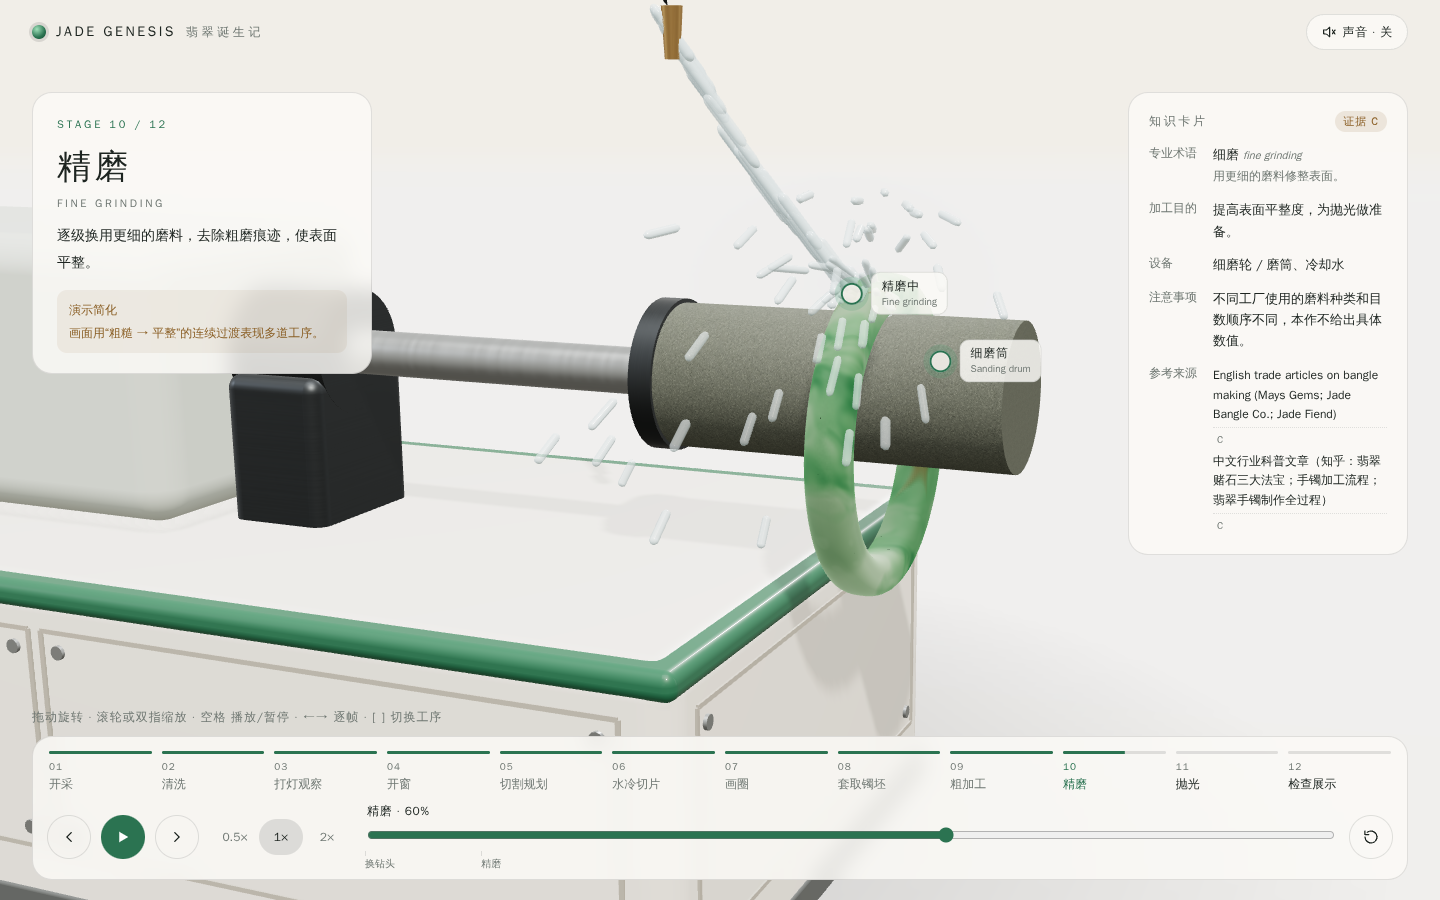
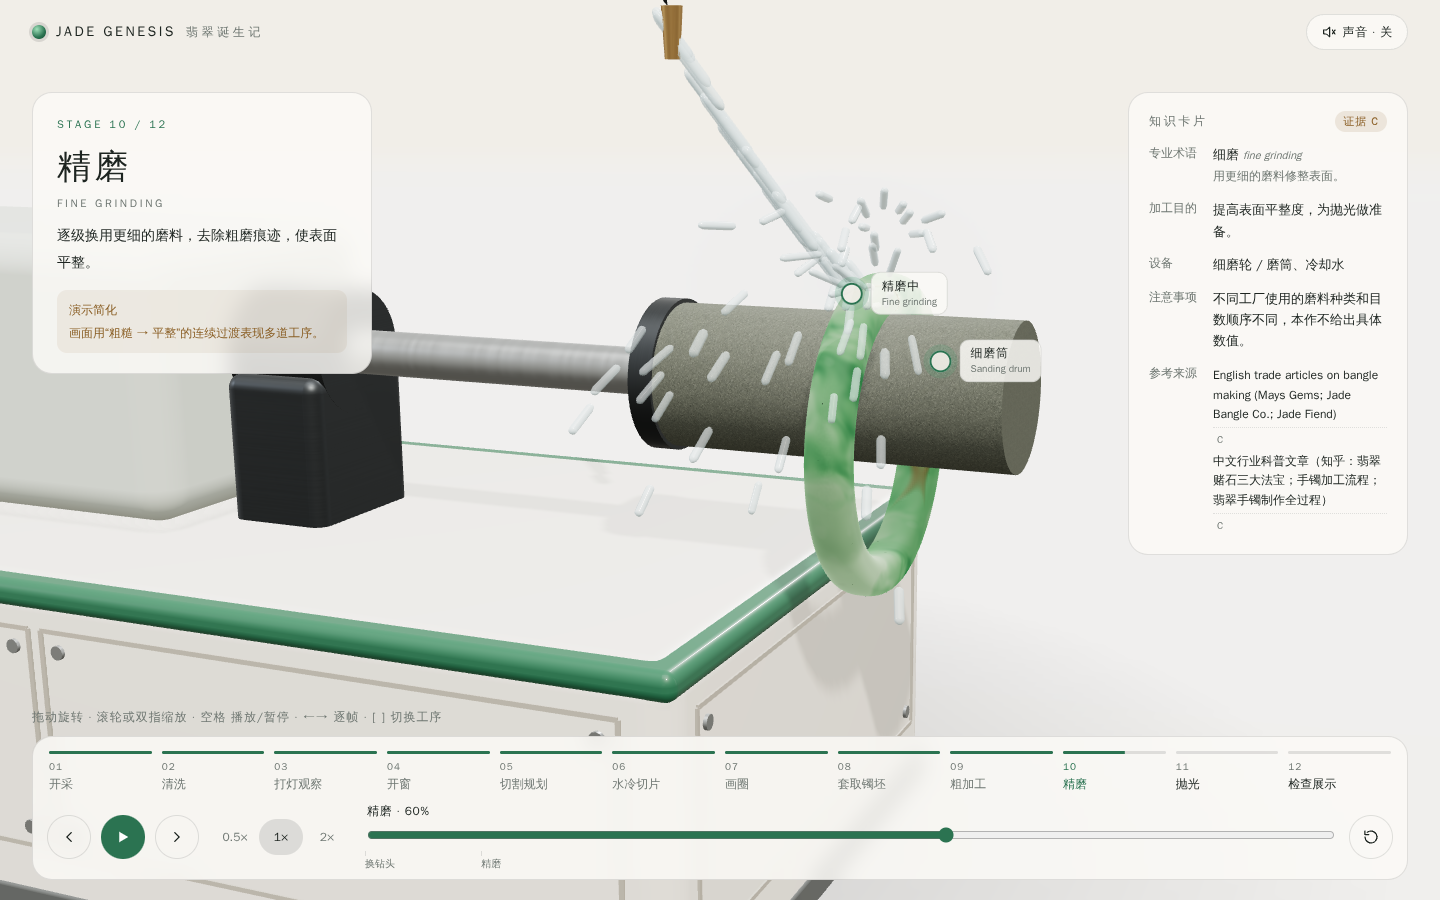
Phase 7: final regression results (desktop 22/22, mobile 20 + 2 skipped)
Claude-Session: https://claude.ai/code/session_01G3ejMZ9FuPFtVwuLJwLrtC

diff --git a/jade-genesis/docs/QA_REPORT.md b/jade-genesis/docs/QA_REPORT.md
@@ -1,3 +1,49 @@
+# QA 报告 — v1.1（Phase 7 工业级视觉升级）
+
+## 最终回归结果（提交 41d0152，`tests/journey.spec.ts`，22 个测试）
+
+| 视口 | 通过 | 跳过 | 失败 | 耗时 |
+|---|---|---|---|---|
+| 桌面 1440×900 | **22** | 0 | 0 | 23.4 分钟 |
+| 移动 390×844 | **20** | 2（键盘为桌面功能；显存测试只在桌面运行一次） | 0 | 10.4 分钟 |
+
+环境与 v1.0 相同：Chromium 无头模式 + SwiftShader（CPU 渲染的 WebGL 2）；被测对象为生产构建。
+
+**Phase 7 新增测试：**
+- `every station is lit inside the key light's shadow box`：12 幕逐一检查，当前工位都在主光的阴影框内。✅
+  - 这项测试针对开发中出现过的一个阴影定位错误（见 `PHASE7_ITERATION_LOG.md`）。
+  - 已用脚本确认：把错误代码放进同样的视锥检查，8 个工位中有 6 个不通过；修复后的代码 8 个全部通过。
+
+**修改的测试：**
+- `timeline steps and prev / next jump between stages`：原来断言点击后 `progress` 恰好为 0，现在改为 `< 0.02`。
+- 原因：跳转后立即开始播放，读取状态前可能已经渲染了一帧（第一次桌面运行读到 0.0029）。应用行为没有变化。
+
+**运行历史（不计入结果，如实记录）：**
+1. 第一轮：在阴影错误的构建上开始，发现问题后中止。
+2. 第二轮（修复阴影后，提交 89724b5 – 3dcc6f6）：
+   - 桌面 21 通过、1 失败，即上述时序断言。
+   - 移动 20 通过、2 跳过，这次运行已使用修正后的断言。
+3. 第三轮：随后加入了玉的体内回散光，改变了画面。为了让结果对应最终代码，又完整运行了一次（上表）。
+   - 第三轮中途遇到容器重启，丢失了测试任务；截图任务在重启前已完成。
+   - 重启后重新运行了全部测试，不拼接中断前的部分结果。
+
+**测试截图：** `docs/qa/phase7/`（桌面与移动各 14 张）。v1.0 的 `docs/qa/phase5/` 保持不变。
+
+## 发布检查
+
+`npm run release` 的产物放在 `/pixel-dioramas/jade-genesis/play/` 子路径下提供（与 GitHub Pages 结构相同）：
+- 3 个请求全部返回 200，都是相对路径。
+- WebGL 就绪；点击“开始旅程”后进入导览并开始播放。
+- 控制台错误：0。✅
+
+## 视觉与性能
+
+- 视觉验收：`PHASE7_VISUAL_REPORT.md`
+- 渲染工作量：`PHASE7_PERFORMANCE.md`
+- **帧率仍未实测**（容器里没有 GPU）
+
+---
+
 # QA 报告 — v1.0（Phase 5 迭代 + Phase 6 发布）
 
 ## 最终回归结果（Phase 5 之后，`tests/journey.spec.ts`，21 个测试）
